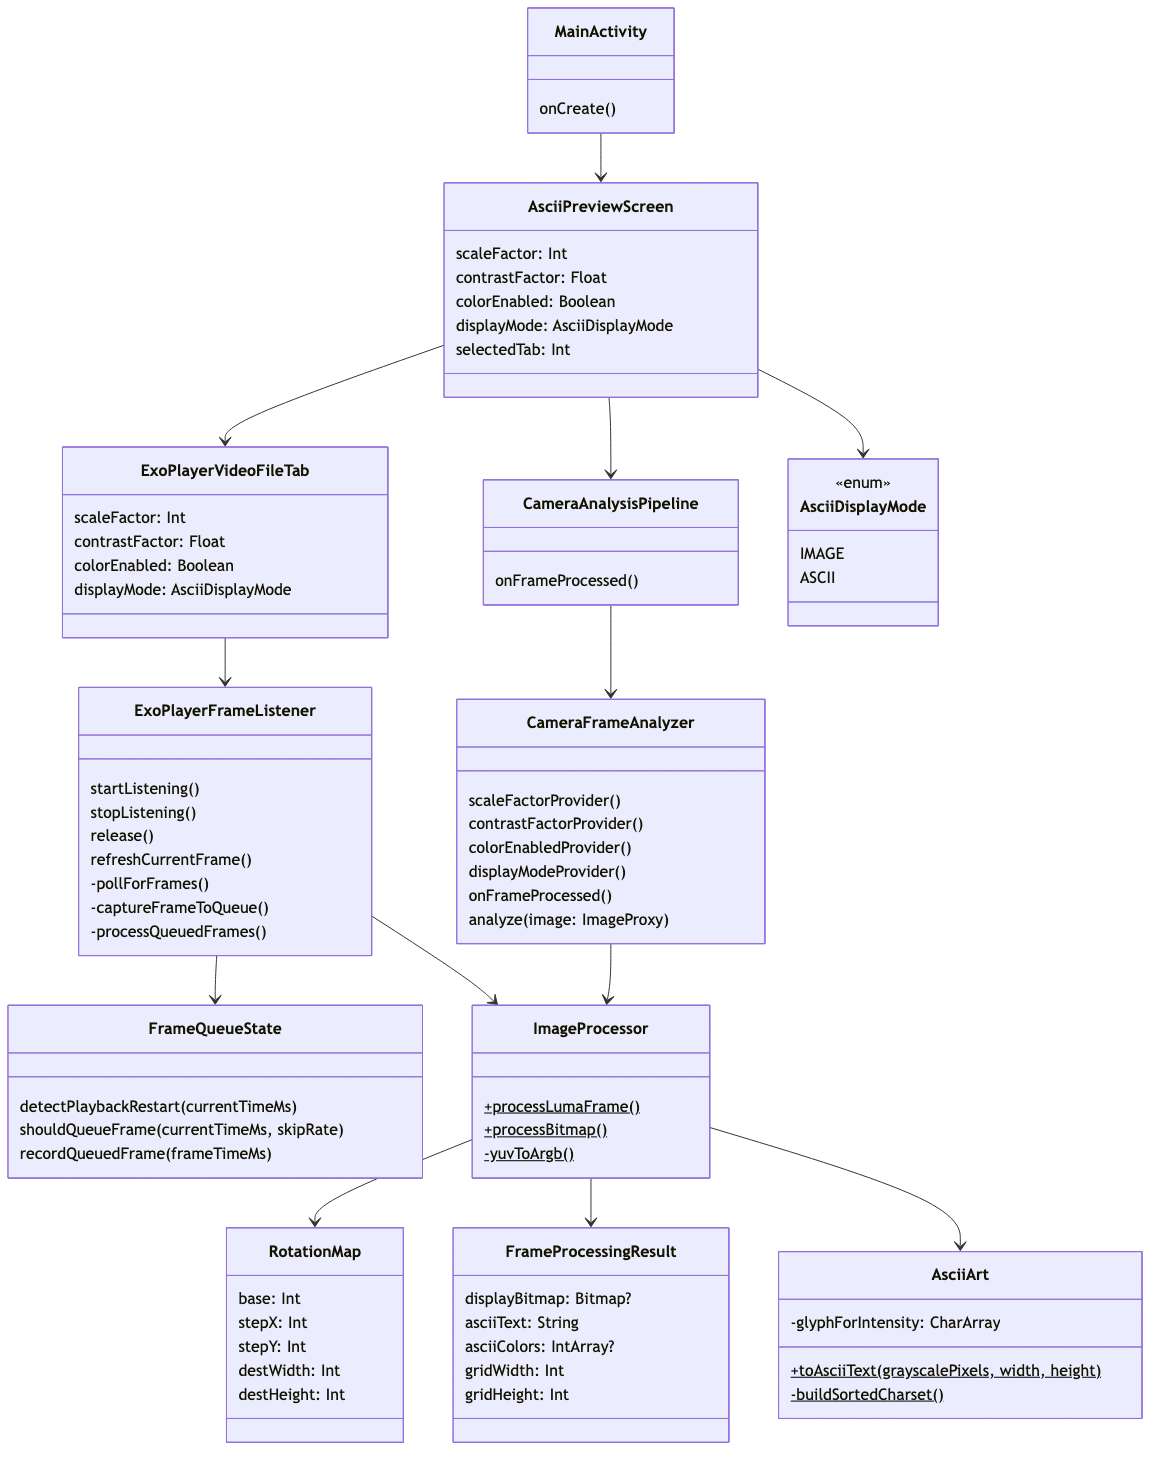
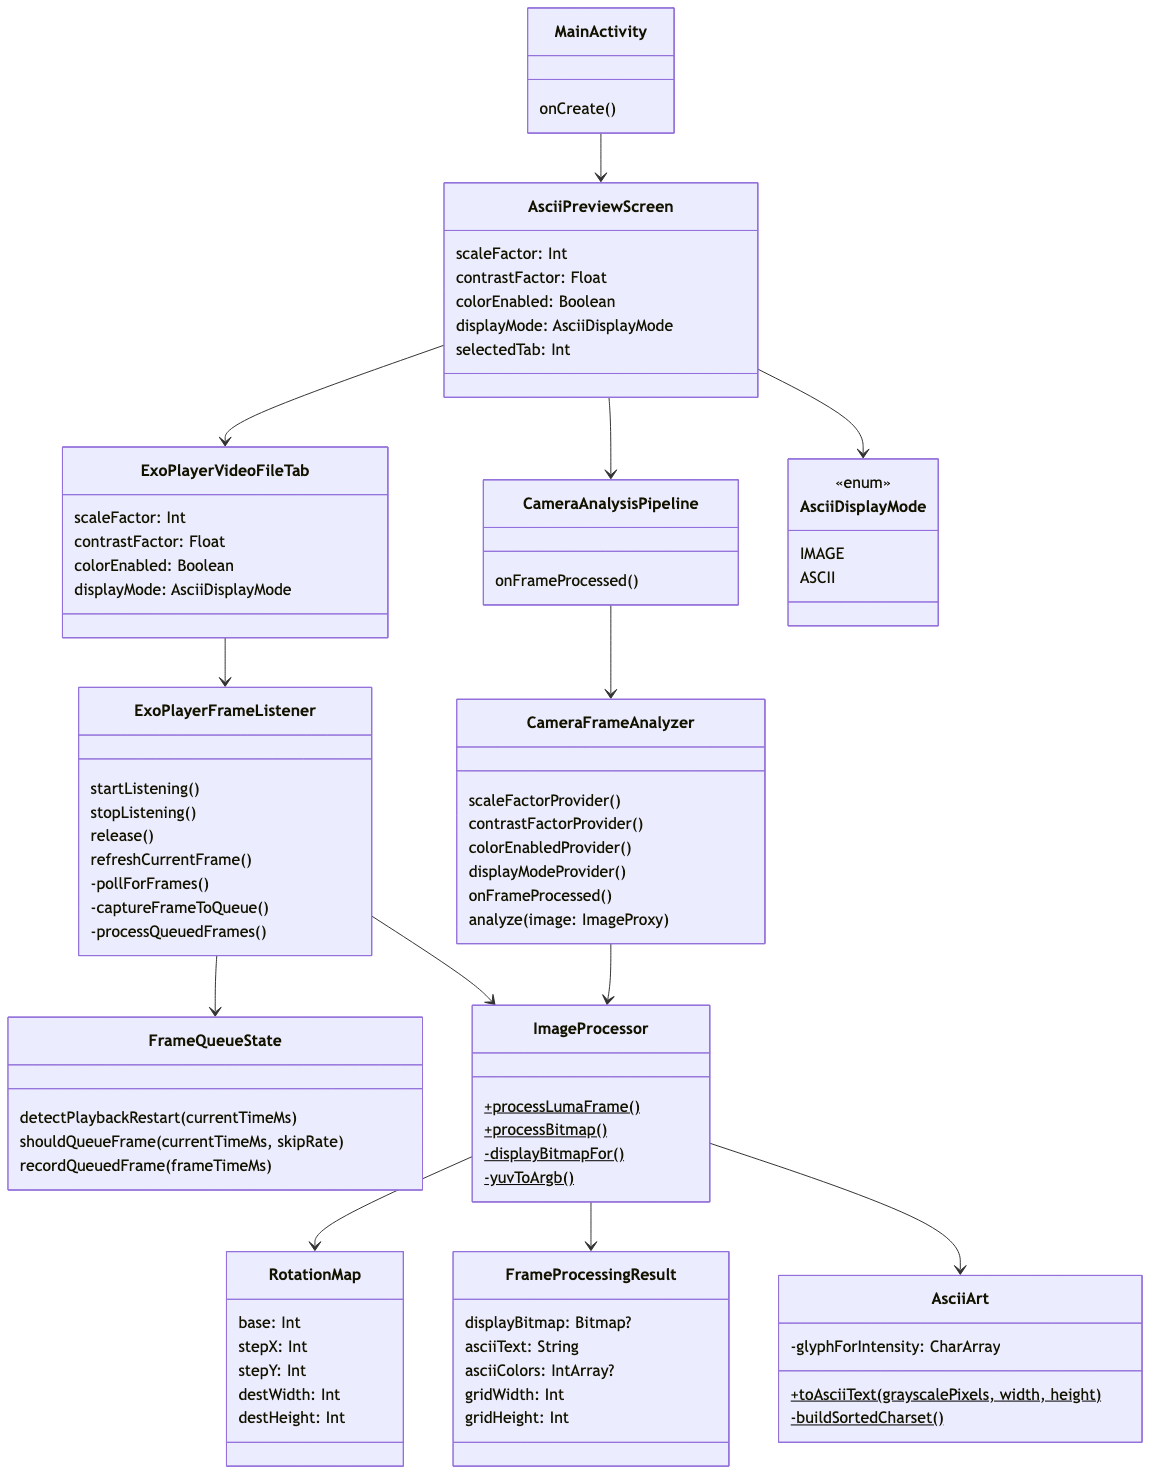
Correct three claims the sequence diagrams got wrong
Found by re-checking the diagrams against the merged code rather than
against the change description.

- The colour grid is not returned in Image mode. Both the colour and video
  sequences showed FrameProcessingResult carrying colorGrid unconditionally;
  asciiColors is null whenever the display mode is Image, since only
  AsciiGridPreview tints from it.
- refreshCurrentFrame() fires on a Colour change as well as a display mode
  change. The video sequence named only the mode. Keying on both is what
  keeps the Colour toggle live on a paused video.
- ImageProcessor.displayBitmapFor was missing from the class diagram, which
  lists private members.

PNGs regenerated for the three diagrams that changed.

diff --git a/README.md b/README.md
@@ -137,7 +137,7 @@ sequenceDiagram
     else Image Mode
         IP->>IP: Create display bitmap from the colour grid
     end
-    IP-->>CFA: FrameProcessingResult (displayBitmap, asciiText, colorGrid, grid size)
+    IP-->>CFA: FrameProcessingResult (displayBitmap, asciiText, grid size,<br/>plus colorGrid in ASCII mode only)
     CFA->>UI: onFrameProcessed(frame)
     alt Image Mode
         UI->>UI: ImagePreview draws the colour bitmap
@@ -168,12 +168,12 @@ sequenceDiagram
         else Image Mode
             IP->>IP: Create display bitmap (colour grid or grayscale)
         end
-        IP-->>EFL: FrameProcessingResult (displayBitmap, asciiText, colors, grid size)
+        IP-->>EFL: FrameProcessingResult (displayBitmap, asciiText, grid size,<br/>plus colorGrid in ASCII mode only)
         EFL->>UI: onFrameProcessed(frame)
         UI->>UI: Render via ImagePreview or AsciiGridPreview
     end
     Note over EFL: When playback stops the loop suspends<br/>until Player.Listener signals isPlaying
-    UI->>EFL: refreshCurrentFrame() on a display mode change<br/>so a paused video re-renders in the new mode
+    UI->>EFL: refreshCurrentFrame() when the display mode or Colour changes<br/>so a paused video re-renders under the new setting
 ```
 
 ### Shared Parameter Update Flow
@@ -247,6 +247,7 @@ classDiagram
     class ImageProcessor {
         +processLumaFrame()$
         +processBitmap()$
+        -displayBitmapFor()$
         -yuvToArgb()$
     }
 
